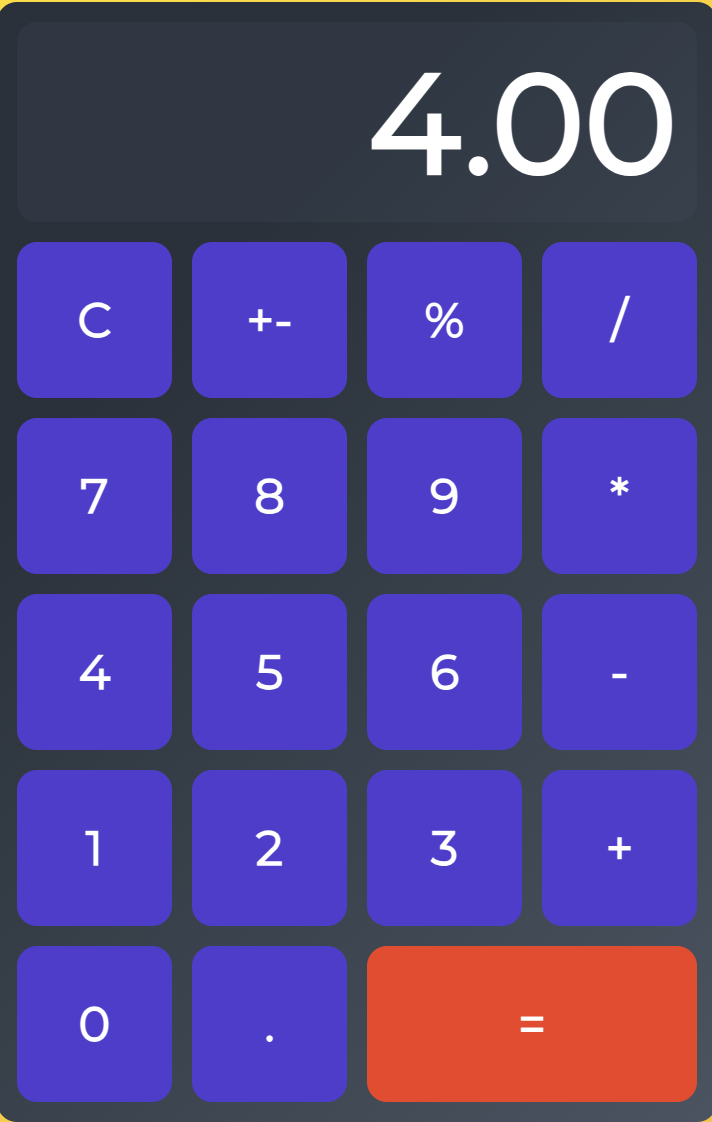
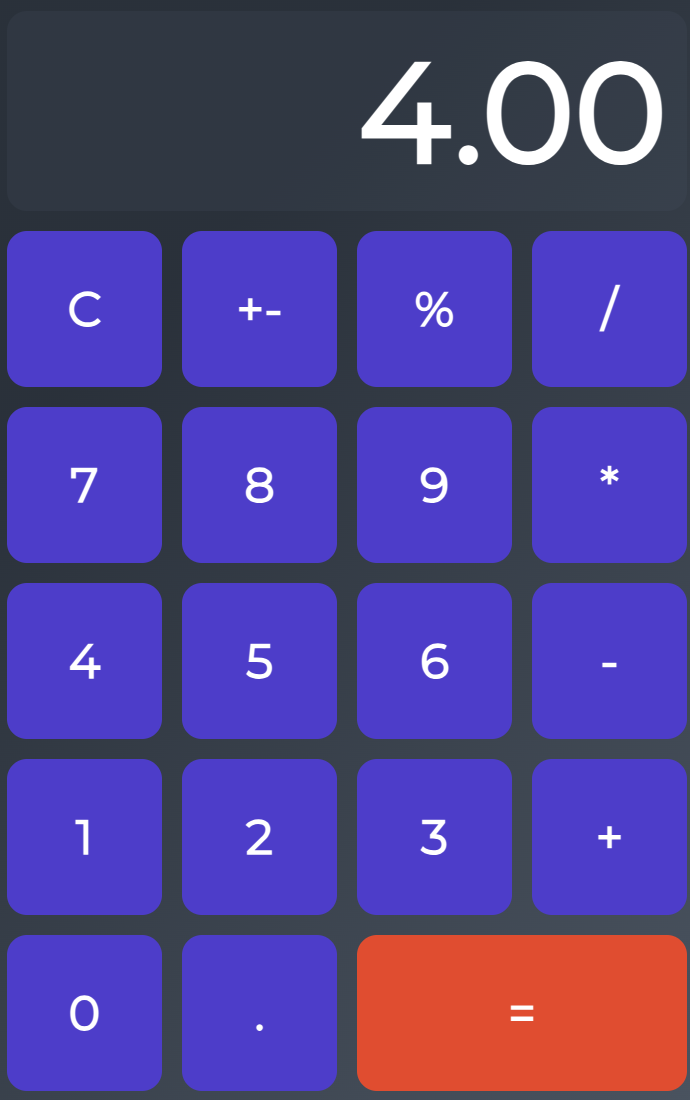
finished the wiping of calculator and implemented it into ProjectPage component

diff --git a/src/App.js b/src/App.js
@@ -5,7 +5,6 @@ import Navbar from "./components/Navbar"
 import Notebooks from "./pages/Notebooks"
 import About from "./pages/About"
 import ProjectPage from "./pages/ProjectPage";
-import Calculator from "./pages/Calculator";
 
 export default function App() {
     const sentimentProject = {
@@ -134,6 +133,63 @@ export default function App() {
         repo: "https://github.com/lukebrevoort/website"
     };
 
+    const calculatorProject = {
+        title: "Calculator",
+        description: "A simple calculator built using JavaScript to perform basic arithmetic operations.",
+        skills: [
+            { name: "Language", details: "Go, JavaScript" },
+            { name: "Framework", details: "React" },
+            {name: "Documentation", details: "Python eval()" },
+            { name: "Date", details: "2024" }
+        ],
+        image: "./images/calculator.png",
+        link: "/calculator",
+        color: "blue",
+        intros: [
+            {
+                title: "Intro:",
+                content: "This project is a simple calculator built using React and Go. It uses the eval() function to evaluate mathematical expressions."
+            },
+            {
+                title: "The Idea:",
+                content: "The idea was to create a user-friendly calculator that can handle basic arithmetic operations. The calculator UI is built with React, and the backend logic is handled by Go.",
+                image: "../images/calculatorUI.png",
+                color: "yellow"
+            },
+            {
+                title: "Go Backend:",
+                content: "The backend is built using Go, which handles the evaluation of mathematical expressions using the eval() function. This ensures that the calculations are performed efficiently and accurately.",
+                image: "./images/goLogo.png"
+            },
+            {
+                title: "React Frontend:",
+                content: "The frontend is built using React, providing a responsive and interactive user interface. The calculator UI is designed to be intuitive and easy to use.",
+                image: "./images/reactLogo.png",
+                color: "red"
+            },
+            {
+                title: "The Result:",
+                content: "Input any mathematical expression and get the result instantly. For example, 2 + 2 will give you 4.",
+                image: "./images/result.png",
+            }
+        ],
+        flexbar: {
+            boxes: [
+                {
+                    title: "Collaborative Frontend and Backend",
+                    content: "Put Together two local servers for Go and React to communicate with each other. This was done to ensure that the frontend and backend could communicate with each other and provide a seamless user experience.",
+                    color: "blue"
+                },
+                {
+                    title: "Tokenization",
+                    content: "Tokenized the operators and operands in the mathematical expression to evaluate the expression to create a pseudo eval() function. This process ensures that the expression is parsed correctly and the calculations are performed accurately.",
+                    color: "green"
+                },
+            ]
+        },
+        repo: "https://github.com/lukebrevoort/calculator"
+    };
+
     return (
         <div id="main">
             <BrowserRouter>
@@ -144,7 +200,7 @@ export default function App() {
                         <Route path="about" element={<About />} />
                         <Route path="sentiment" element={<ProjectPage project={sentimentProject} />} />
                         <Route path="website" element={<ProjectPage project={websiteProject} />} />
-                        <Route path="calculator" element={<Calculator />} />
+                        <Route path="calculator" element={<ProjectPage project={calculatorProject} />} />
                     </Route>
                 </Routes>
             </BrowserRouter>

diff --git a/src/pages/ProjectPage.css b/src/pages/ProjectPage.css
@@ -15,6 +15,12 @@
     margin-bottom: 20px;
 }
 
+.project--title--page img {
+    width: 400px;
+    height: auto;
+    margin: 20px;
+}
+
 .project--title {
     display: flex;
     justify-content: center;
@@ -78,7 +84,7 @@
 }
 
 .project--image {
-    height: 200px;
+    height: 300px;
     width: auto;
     align-self: center;
     border-radius: 15px;
@@ -163,4 +169,8 @@
 
 .blue {
     background-color: #4547BA;
+}
+
+.yellow {
+    background-color: #E1C16E;
 }
